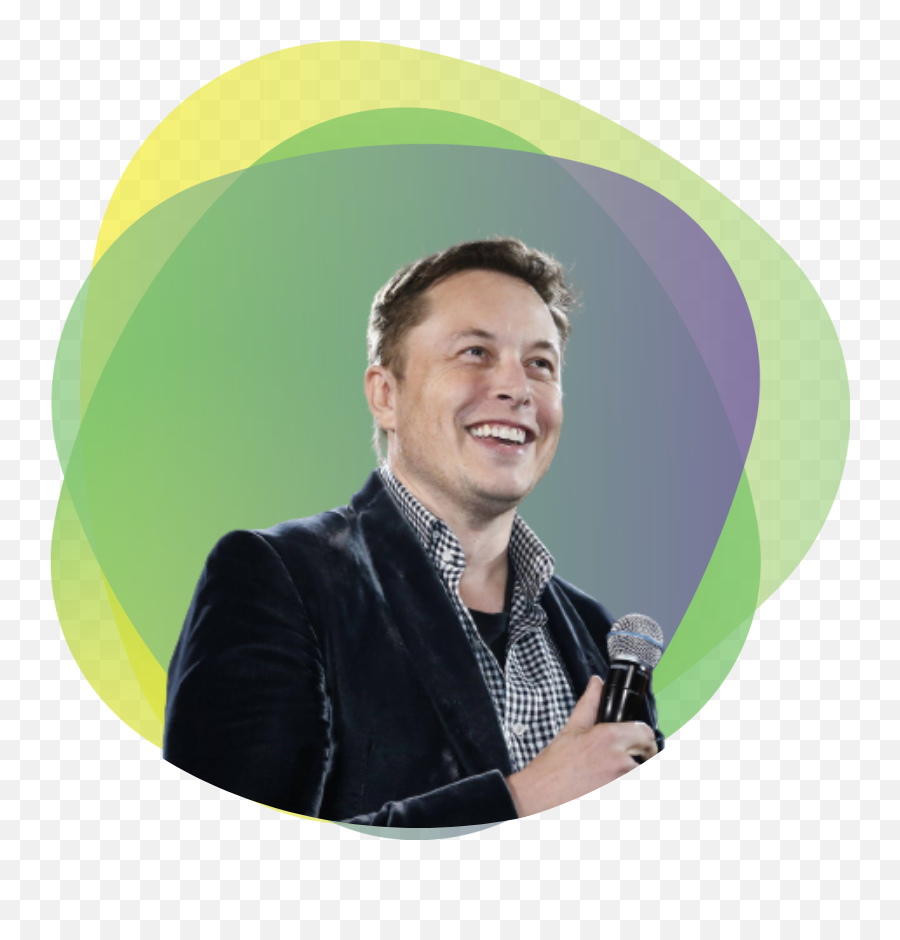
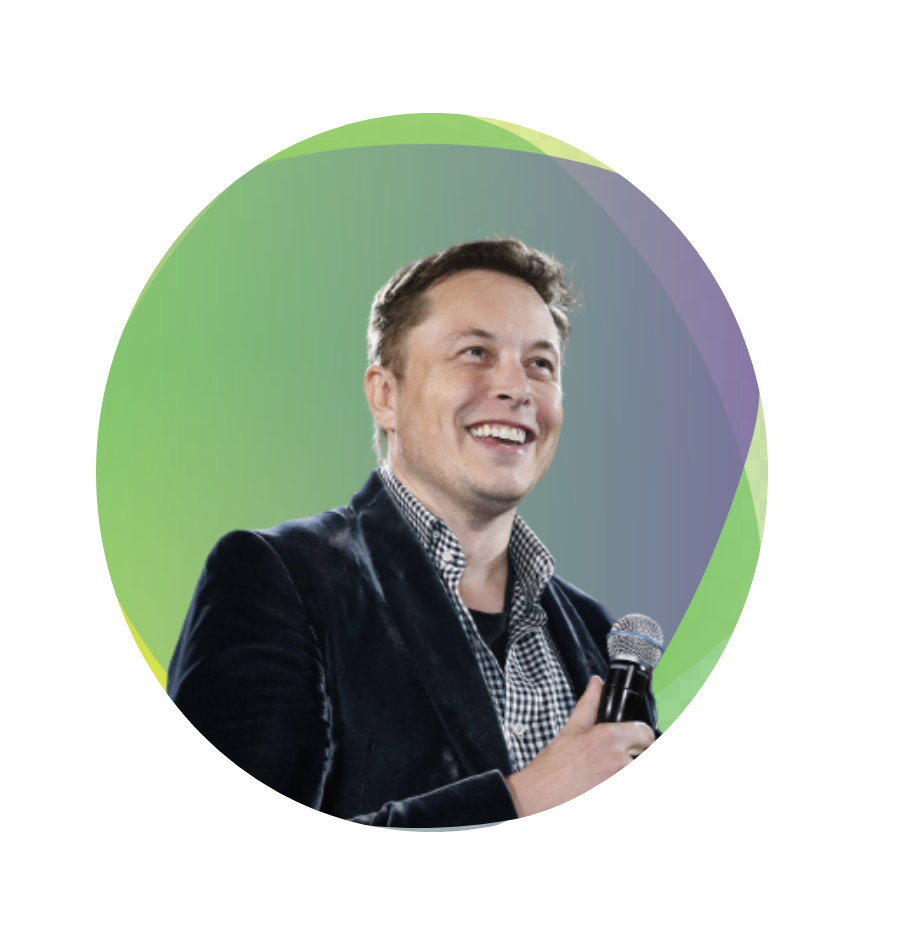
new commit

Changed region(s): [[0.0311, 0.0309, 0.9644, 0.8947], [0.7156, 0.7713, 0.7467, 0.8021], [0.6844, 0.8021, 0.7156, 0.833]]

diff --git a/index.html b/index.html
@@ -16,38 +16,68 @@
 </head>
 
 <body>
-    <section class="section-area">
-        <div class="left-area">
+    <section class="section-area flexible-container">
+        <div class="half-item">
+            <h1>welcome to </h1>
+            <h1> <span>Elon musk</span> protfolio</h1>
+            <h5>Elon Reeve Musk is a business and investor.</h5>
+            <p>Musk was born in Pretoria, South Africa, and briefly attended at the University of Pretoria before moving
+                to Canada at age 18, acquiring citizenship through his Canadian-born mother. Two years later, he
+                matriculated at
+                to Canada at age 18, acquiring citizenship through his Canadian-born mother. Two years later, he
+                .</p>
+            <a class="btn-link" href="#">Hire Me</a>
+        </div>
+        <div class="half-item">
+            <img src="image/pngtree-shape-abstract-text-box-png-image_5687056.png" alt="">
+        </div>
+    </section>
+
+    <section class="bigdream-area flexible-container">
+        <div class="half-item">
+            <img src="image/4232268-middle.png" alt="">
+        </div>
+
+        <div class="half-item">
             <h1>Elon musk protfolio</h1>
             <h2>Elon Reeve Musk is a business and investor.</h2>
             <p>Musk was born in Pretoria, South Africa, and briefly attended at the University of Pretoria before moving
                 to Canada at age 18, acquiring citizenship through his Canadian-born mother. Two years later, he
                 matriculated at Queen's University and transferred to the University of Pennsylvania, where he received
-                bachelor's degrees in economics and physics. He moved to California in 1995 to attend Stanford
-                University. After two days, he dropped out and with his brother Kimbal, co-founded the online city guide
-                software company Zip2.</p>
+                .</p>
+            <a class="btn-link" href="#">Downlode resume</a>
         </div>
-        <div class="right-area">
-            <img src="image/pngtree-shape-abstract-text-box-png-image_5687056.png" alt="">
-        </div>
-    </section>
 
-    <section class="section-area">
-        <div class="left-area">
-            <h1>Elon musk protfolio</h1>
-            <h2>Elon Reeve Musk is a business and investor.</h2>
-            <p>Musk was born in Pretoria, South Africa, and briefly attended at the University of Pretoria before moving
-                to Canada at age 18, acquiring citizenship through his Canadian-born mother. Two years later, he
-                matriculated at Queen's University and transferred to the University of Pennsylvania, where he received
-                bachelor's degrees in economics and physics. He moved to California in 1995 to attend Stanford
-                University. After two days, he dropped out and with his brother Kimbal, co-founded the online city guide
-                software company Zip2.</p>
-        </div>
-        <div class="right-area">
-            <img src="image/pngtree-shape-abstract-text-box-png-image_5687056.png" alt="">
-        </div>
     </section>
+    <section class="experiences-section">
+        <h1>Experiences</h1>
+        <div class="flexible-container">
+            <div class="half-item">
+                <h1>Industrial designer</h1>
+                <h2>He is the founder, CEO and chief engineer of SpaceX.</h2>
+                <p>Musk was born in Pretoria, South Africa, and briefly attended at the University of Pretoria before
+                    moving
+                    to Canada at age 18, acquiring citizenship through his Canadian-born mother. Two years later, he
+                    matriculated at Queen's University and transferred to the University of Pennsylvania, where he
+                    received
+                    .</p>
 
+            </div>
+
+            <div class="half-item">
+                <h1>Technologist</h1>
+                <h2>Elon Reeve Musk is a business and investor.</h2>
+                <p>Musk was born in Pretoria, South Africa, and briefly attended at the University of Pretoria before
+                    moving
+                    to Canada at age 18, acquiring citizenship through his Canadian-born mother. Two years later, he
+                    matriculated at Queen's University and transferred to the University of Pennsylvania, where he
+                    received
+                    .</p>
+
+            </div>
+        </div>
+
+    </section>
 </body>
 
 </html>

diff --git a/style.css b/style.css
@@ -1,21 +1,68 @@
+/* common style */
+
 body {
     font-family: 'Noto Sans', sans-serif;
-    font-family: 'Ubuntu', sans-serif;
+    margin: 0px;
+
 }
 
-.section-area {
+
+section {
+    margin-bottom: 100px;
+}
+
+.btn-link {
+    padding: 7px 20px;
+    background-image: linear-gradient(rgb(223, 34, 182), rgb(150, 5, 101));
+    color: #fff;
+    text-decoration: none;
+    text-transform: uppercase;
+    border-radius: 3px;
+}
+
+.flexible-container {
     display: flex;
+    justify-content: center;
 }
 
-.left-area {
-    width: 50%;
+/* header style */
+.section-area {
+    background-image: url(image/top-banner.png);
+    background-repeat: no-repeat;
 }
 
-.right-area {
-    width: 50%;
+
+.half-item {
+    width: 45%;
+}
+
+.half-item {
+    width: 45%;
 
 }
 
-.right-area img {
+.half-item img {
     width: 80%;
+}
+
+
+
+.half-item h1 {
+    font-size: 50px;
+    font-weight: 500;
+}
+
+.bigdream-area {
+    background-image: url(image/dream-bg.png);
+    background-repeat: no-repeat;
+    background-position: right bottom;
+
+}
+
+.half-item h1 span {
+    color: rgb(244, 83, 250);
+}
+
+.experiences-section h2 {
+    color: tomato;
 }
